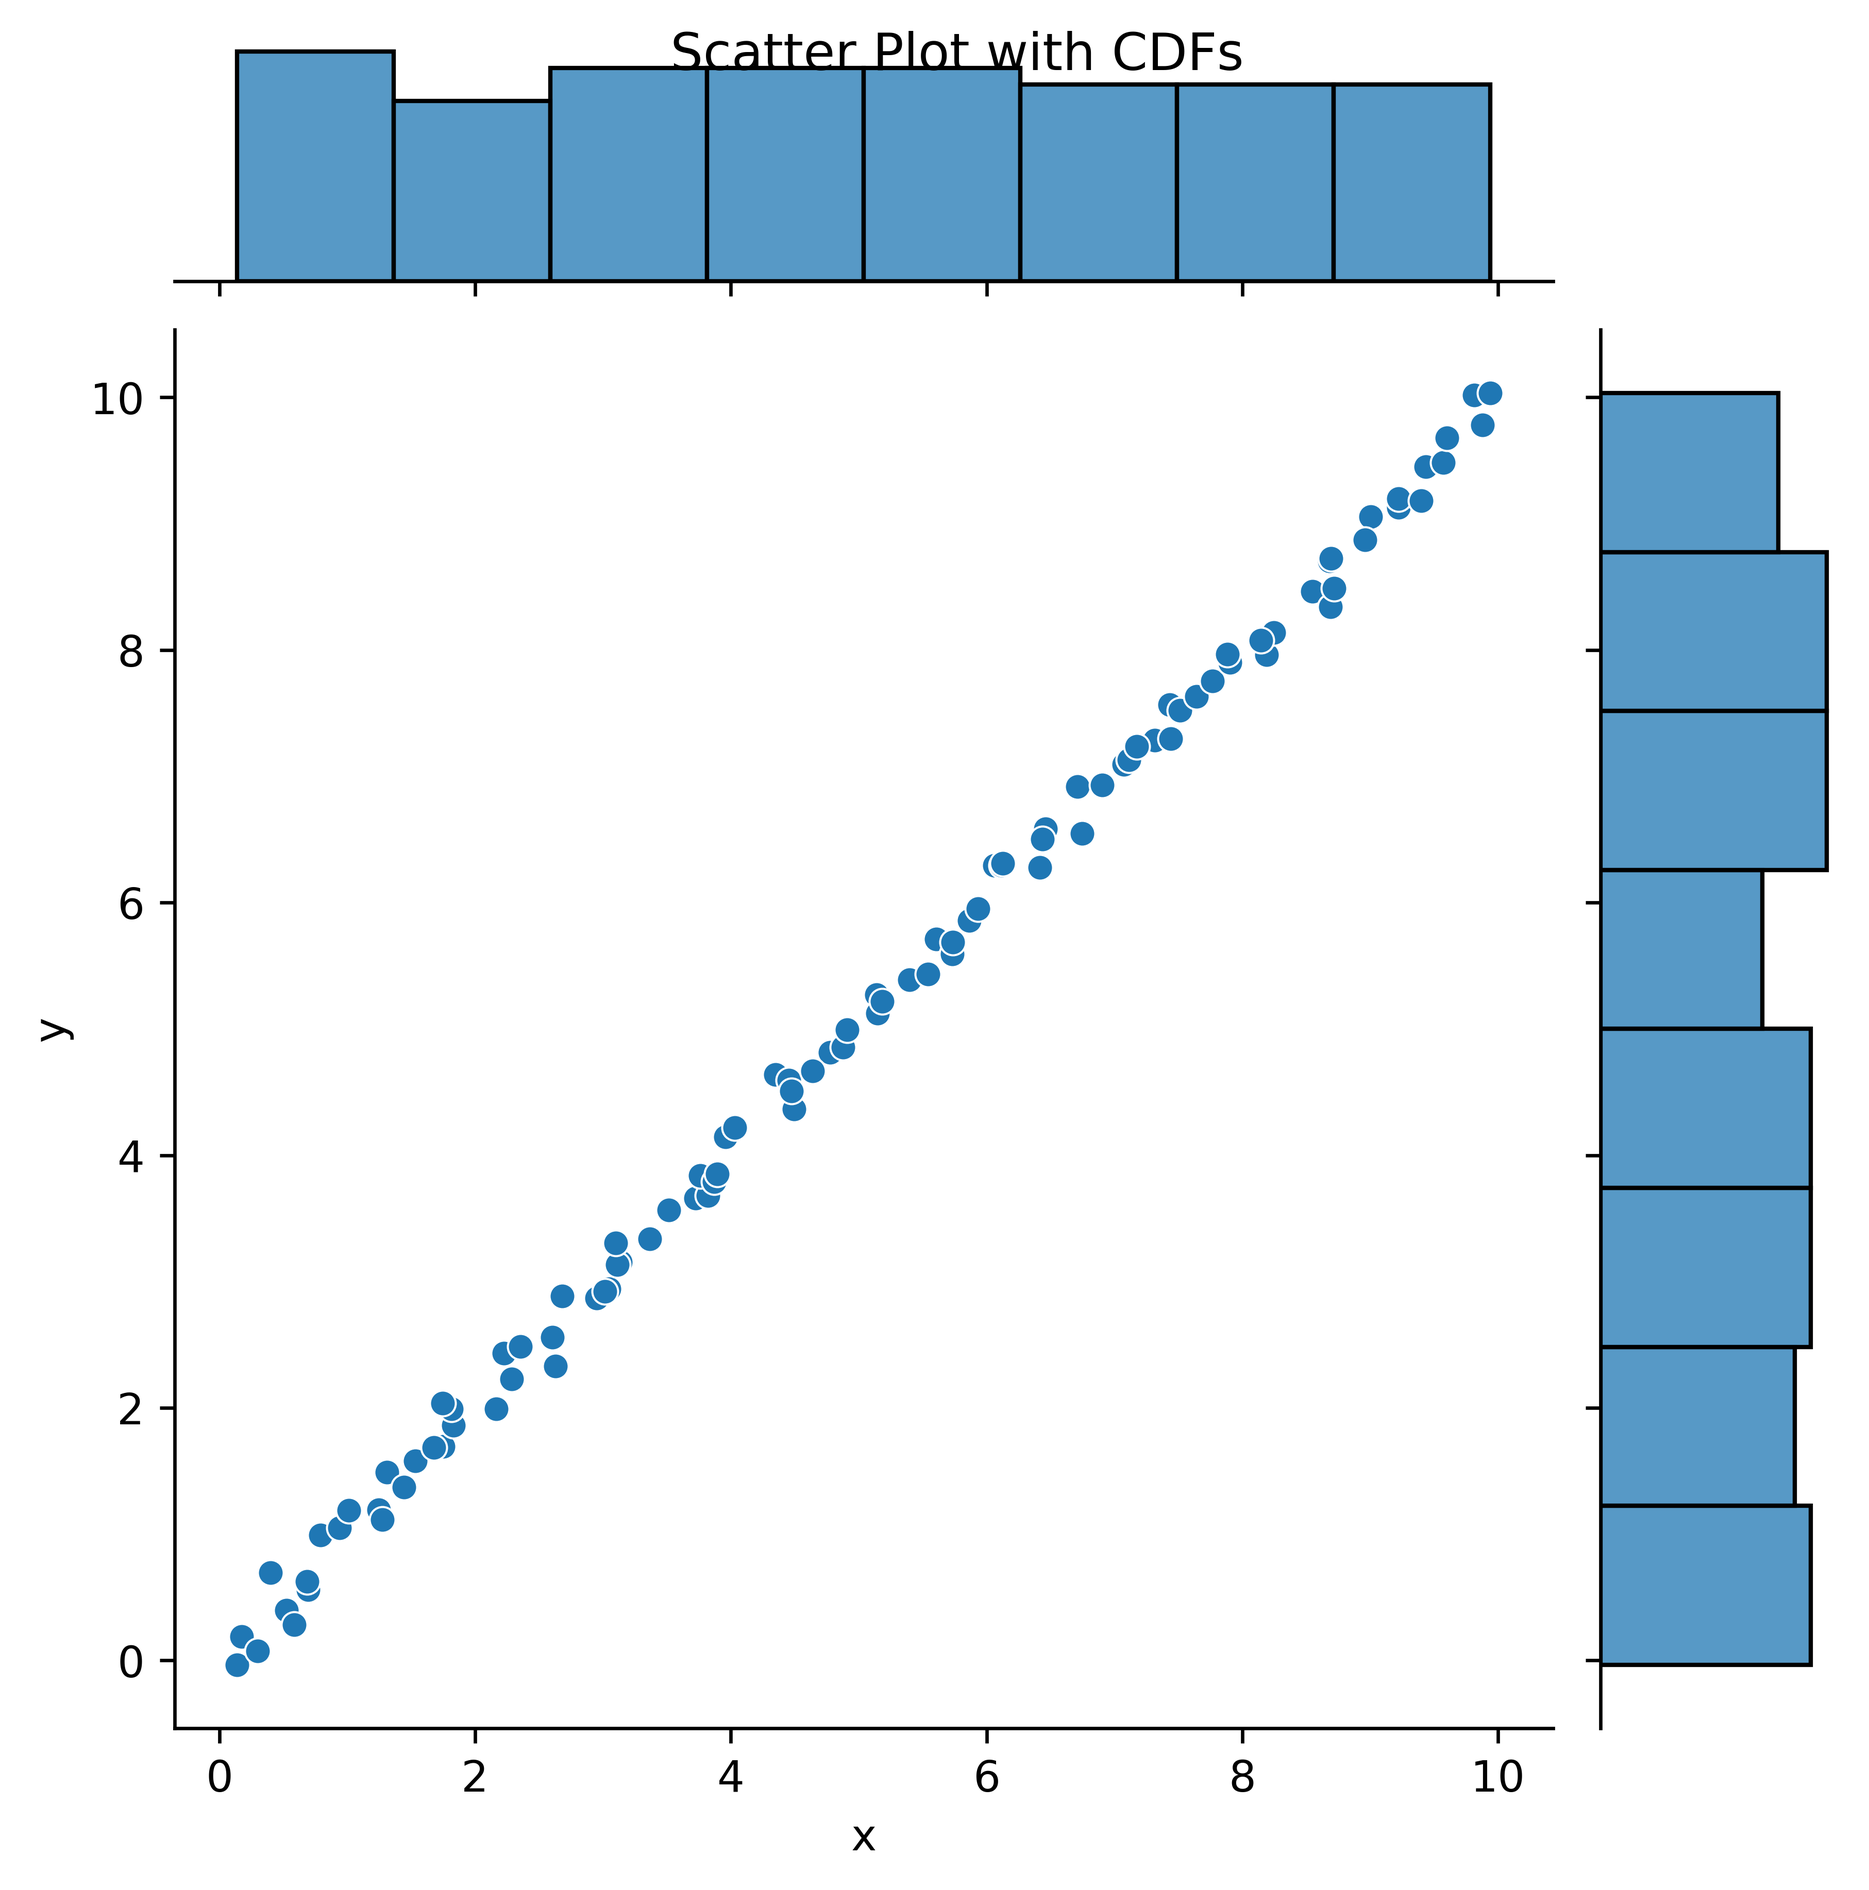
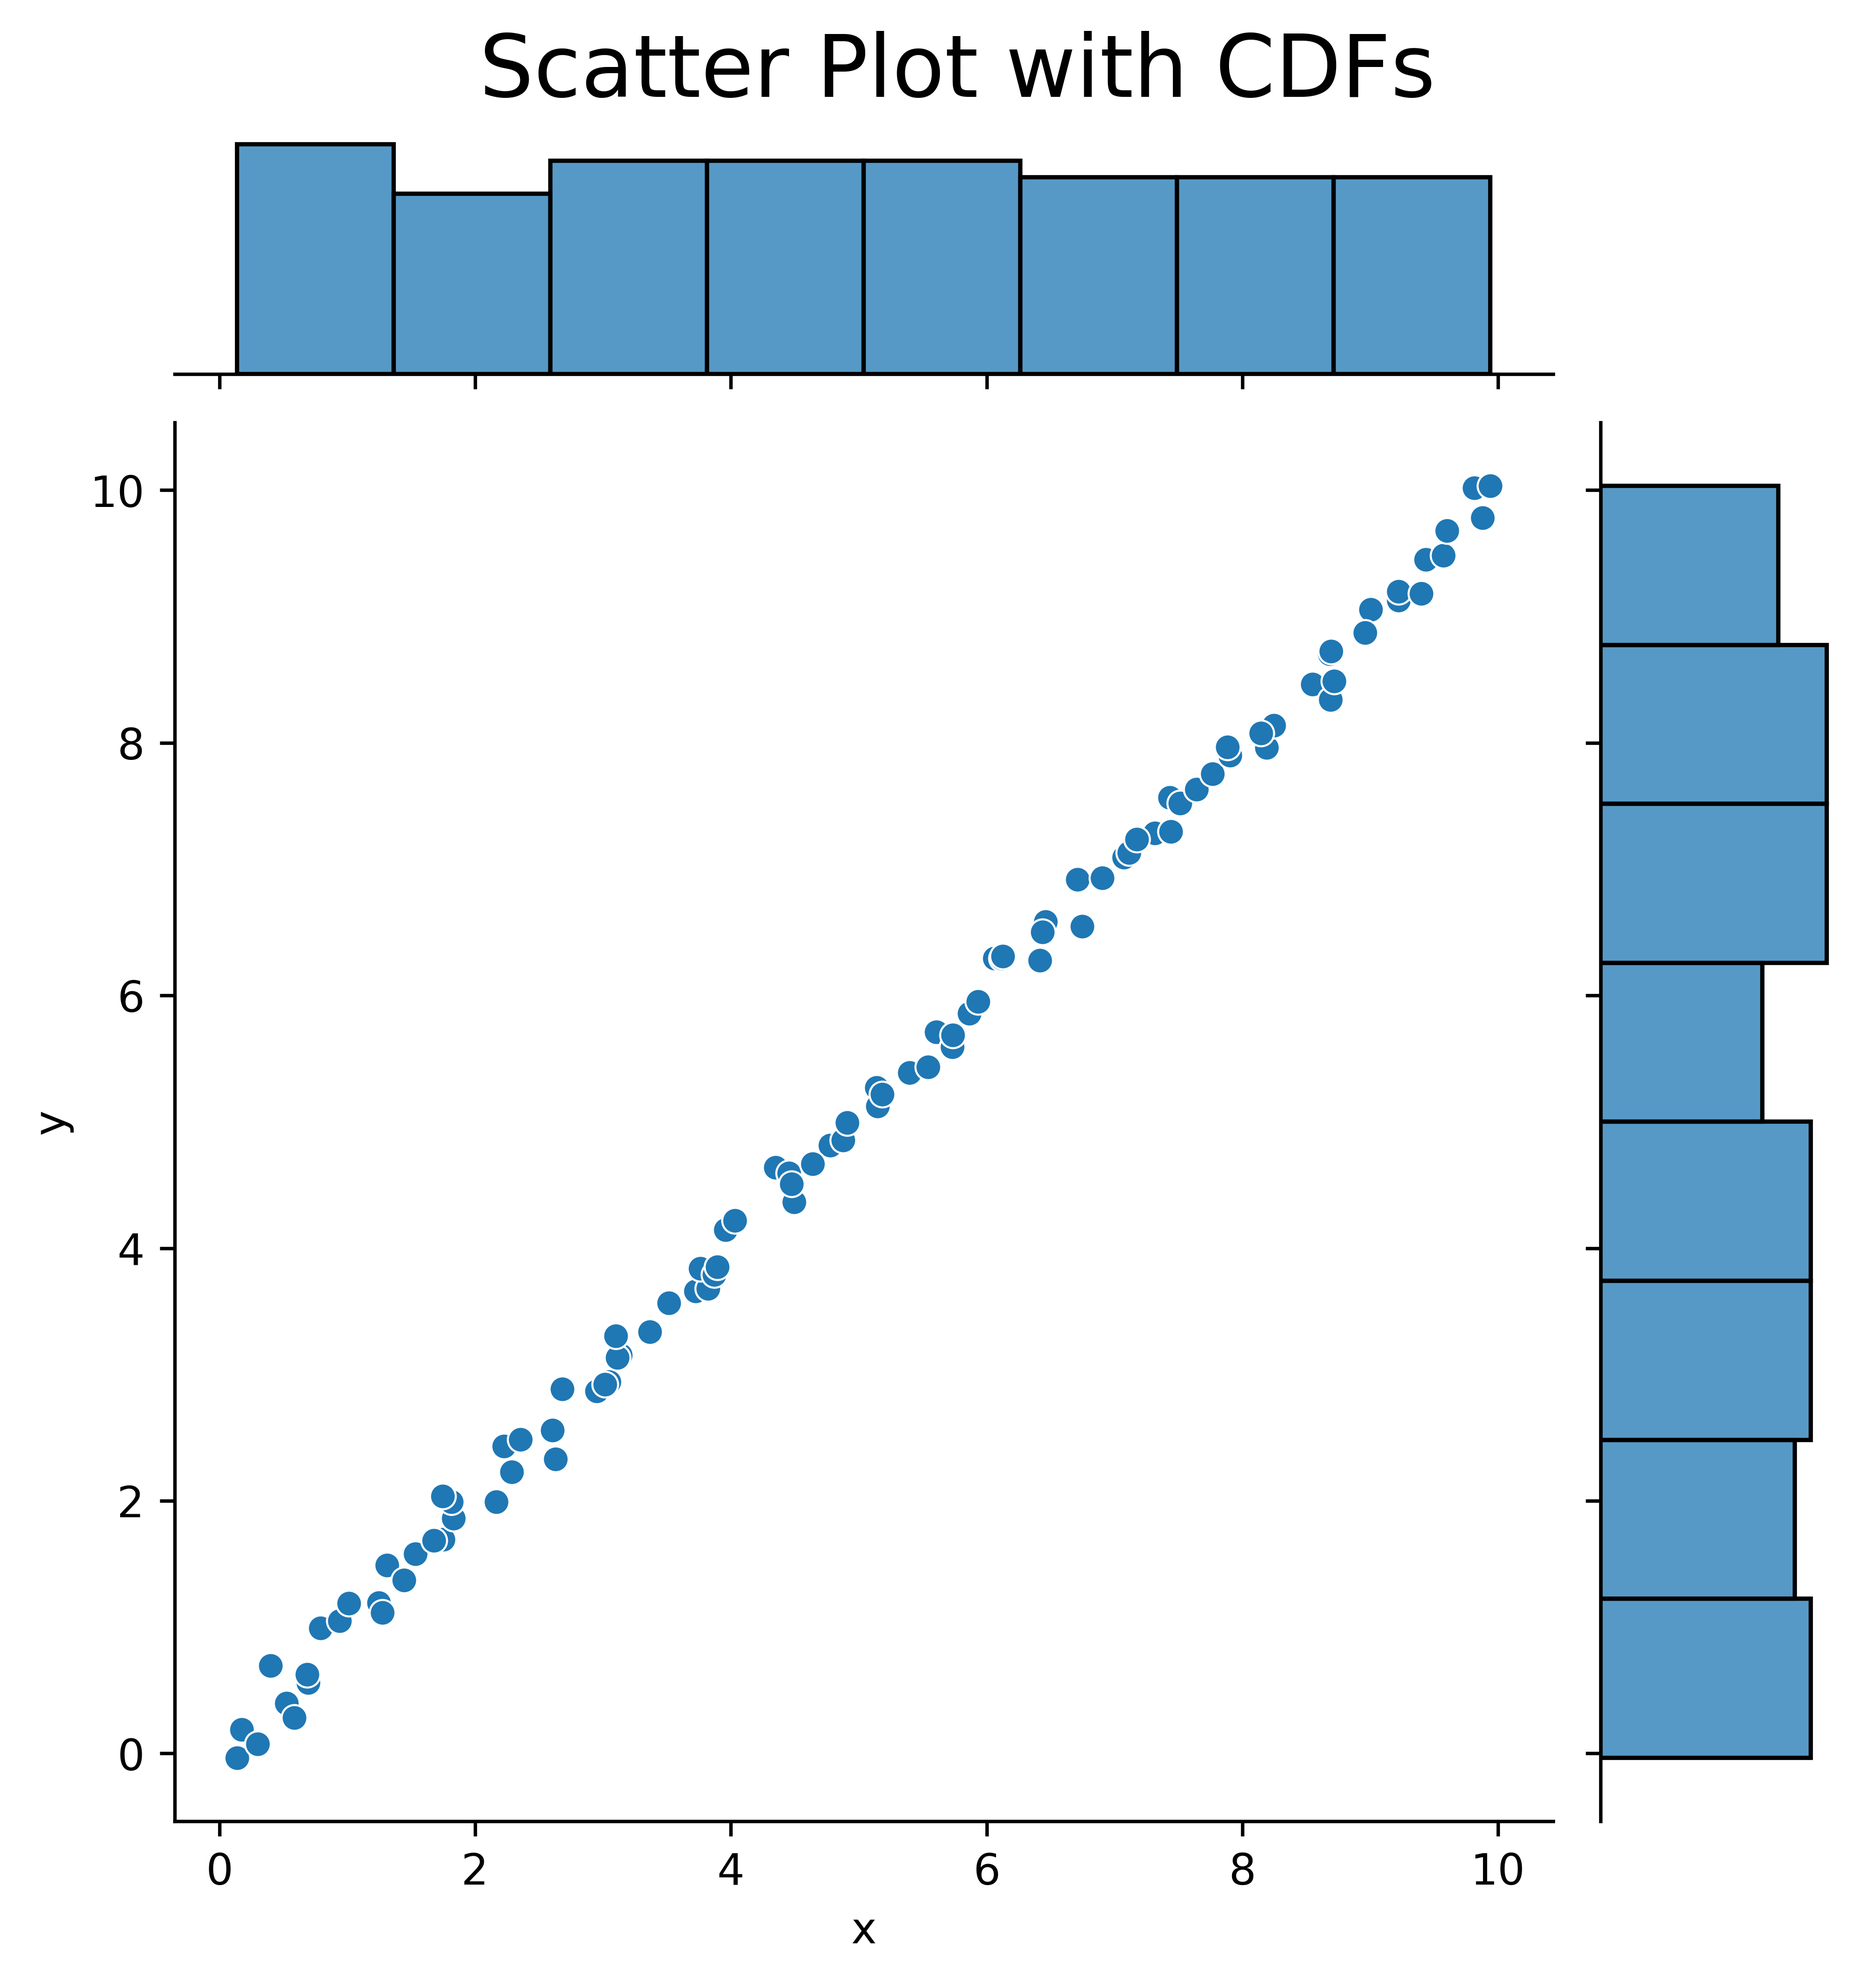
Change title location

diff --git a/plotting_utils/scatterplot_utils.py b/plotting_utils/scatterplot_utils.py
@@ -63,6 +63,6 @@ def scatter_pdf_plot(ts_x = None, ts_y = None, title_str:str = None, ylabel:str 
         plt.ylim(ylim)
 
     # Set title
-    fig.fig.suptitle(title_str)
+    fig.fig.suptitle(title_str, fontsize=20, va='top', y=1.03)
 
     return fig
